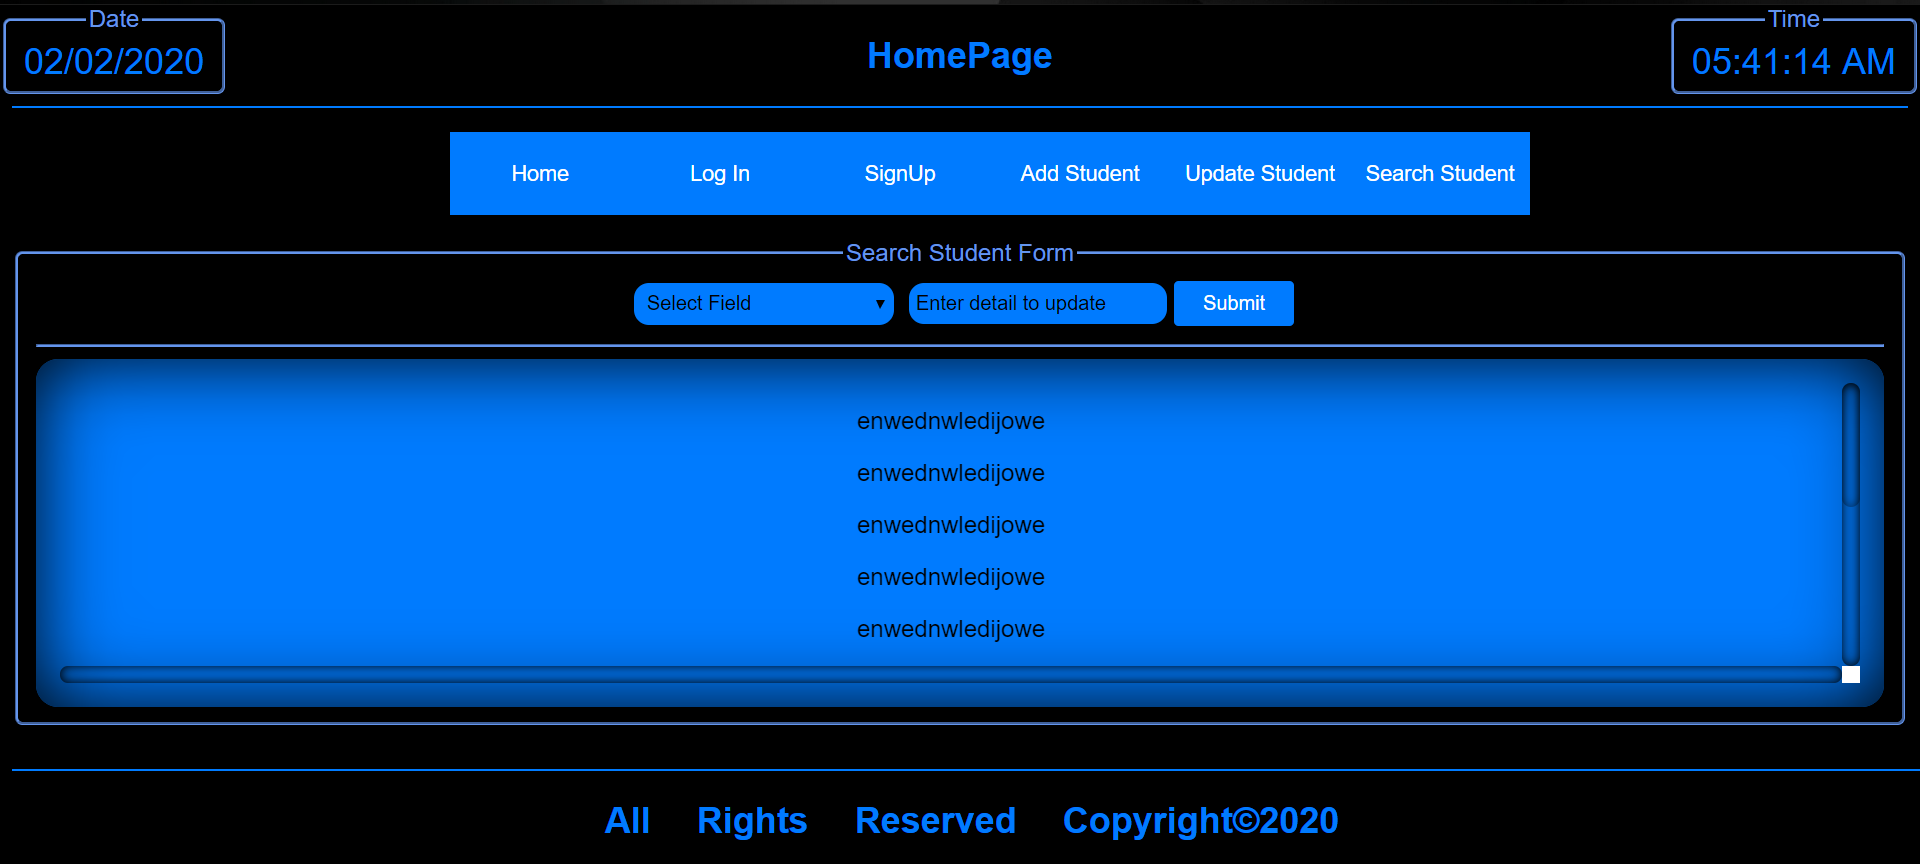
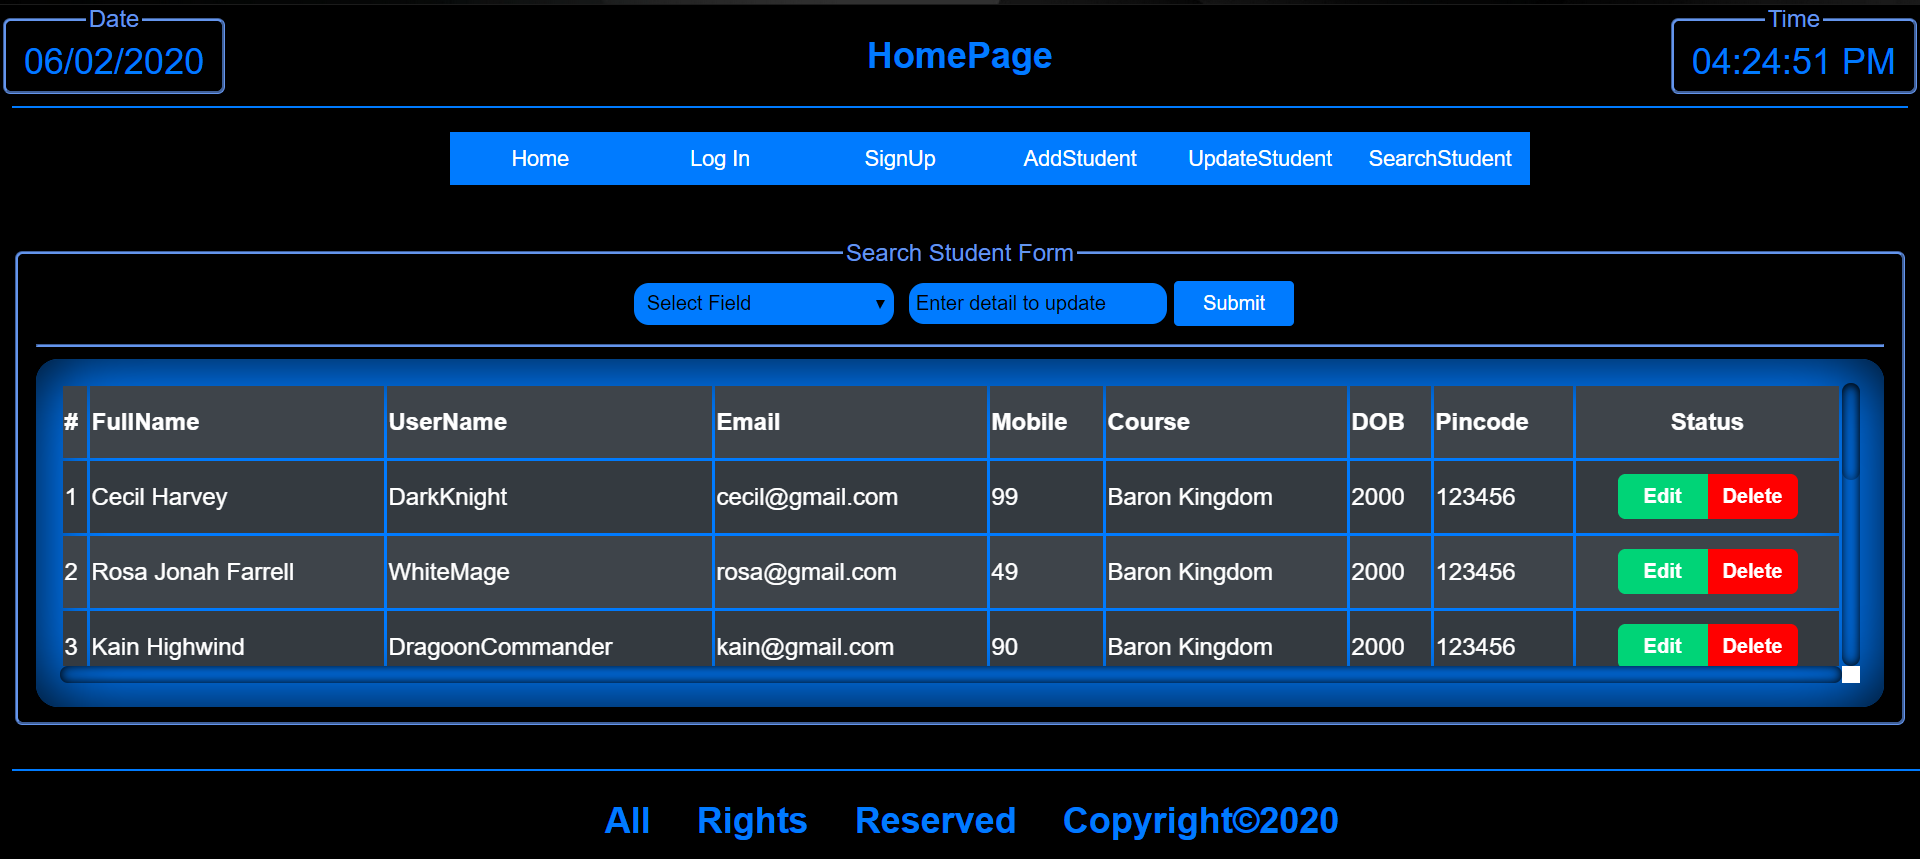
Upadated SearchStudent Page

diff --git a/src/client/components/SearchStudent.jsx b/src/client/components/SearchStudent.jsx
@@ -8,16 +8,18 @@ const SearchStudent = () => {
             <fieldset>
                 <legend>Search Student Form</legend>
                 <form>
-                    <select name="stdudentDetails" id="updateDetails" required>
-                        <option value="">Select Field</option>
-                        <option value="">Mobile</option>
-                        <option value="">Email</option>
-                    </select>
-                    <input type="text" id="updateInfo" className="updateInfo"
-                        placeholder="Enter detail to update"
-                        name="updateInfo" required
-                    />
-                    <button type="submit">Submit</button>
+                    <center>
+                        <select name="stdudentDetails" id="updateDetails" required>
+                            <option value="">Select Field</option>
+                            <option value="">Mobile</option>
+                            <option value="">Email</option>
+                        </select>
+                        <input type="text" id="updateInfo" className="updateInfo"
+                            placeholder="Enter detail to update"
+                            name="updateInfo" required
+                        />
+                        <button type="submit">Submit</button>
+                    </center>
                     <hr />
                     <div className="outerBox">
                         <div className="innerBox">

diff --git a/src/client/components/PrintTable.jsx b/src/client/components/PrintTable.jsx
@@ -14,7 +14,7 @@ class PrintTable extends React.Component {
                 <th>Course</th>
                 <th>DOB</th>
                 <th>Pincode</th>
-                <th>Status</th>
+                <th><center>Status</center></th>
             </tr>
         )
         students.forEach(function (student, i) {
@@ -22,7 +22,7 @@ class PrintTable extends React.Component {
             for (let props in student) {
                 row.push(<td key={i + props}>{student[props]}</td>);
             }
-            row.push(<td key={"status" + i}><center><button>Disable</button></center></td>)
+            row.push(<td key={"status" + i}><center><button id="editButton">Edit</button><button id="stateButton">Delete</button></center></td>)
             if (i % 2 === 0)
                 table.push(<tr style={{ height: "3em", backgroundColor: "#343A40" }} key={i}>{row}</tr>);
             else

diff --git a/src/client/components/CurrentTime.jsx b/src/client/components/CurrentTime.jsx
@@ -1,7 +1,7 @@
 import React from 'react';
 import '../styles/styles.css';
 
-function currTime() {
+function timeFormatterAMPM() {
     let dateString = new Date().toTimeString();
     let newDateString = "";
     let hour = parseInt(dateString.substr(0, 2));
@@ -19,7 +19,7 @@ const CurrentTime = () => {
         <div id="currTimeDiv">
             <fieldset>
                 <legend>Time</legend>
-                <p id="currTime">{setInterval(currTime, 1000)}</p>
+                <p id="currTime">{setInterval(timeFormatterAMPM, 1000)}</p>
             </fieldset >
         </div >
     )

diff --git a/src/client/components/HomePage.jsx b/src/client/components/HomePage.jsx
@@ -31,11 +31,11 @@ const HomePage = () => {
 
     const updateAllState = (event) => {
         for (const state in stateDictionary) {
-            stateDictionary[state](false);
+            stateDictionary[state](false); //equivalent to calling hook setState
         }
         for (const state in stateDictionary) {
             if (event.target.id === state) {
-                stateDictionary[state](true);
+                stateDictionary[state](true); //equivalent to calling hook setState
                 break;
             }
         }

diff --git a/src/client/styles/styles.css b/src/client/styles/styles.css
@@ -122,6 +122,20 @@ hr{
     border-color: cornflowerblue;
 }
 
+#editButton{
+    background-color: #00D477;
+    font-weight: bold;
+    width: 60px;
+    border-radius: 5px 0px 0px 5px;
+}
+
+#stateButton{
+    background-color: red;
+    font-weight: bold;
+    width: 60px;
+    border-radius: 0px 5px 5px 0px;
+}
+
 header{
     color: #007BFF;
     text-align: center;
